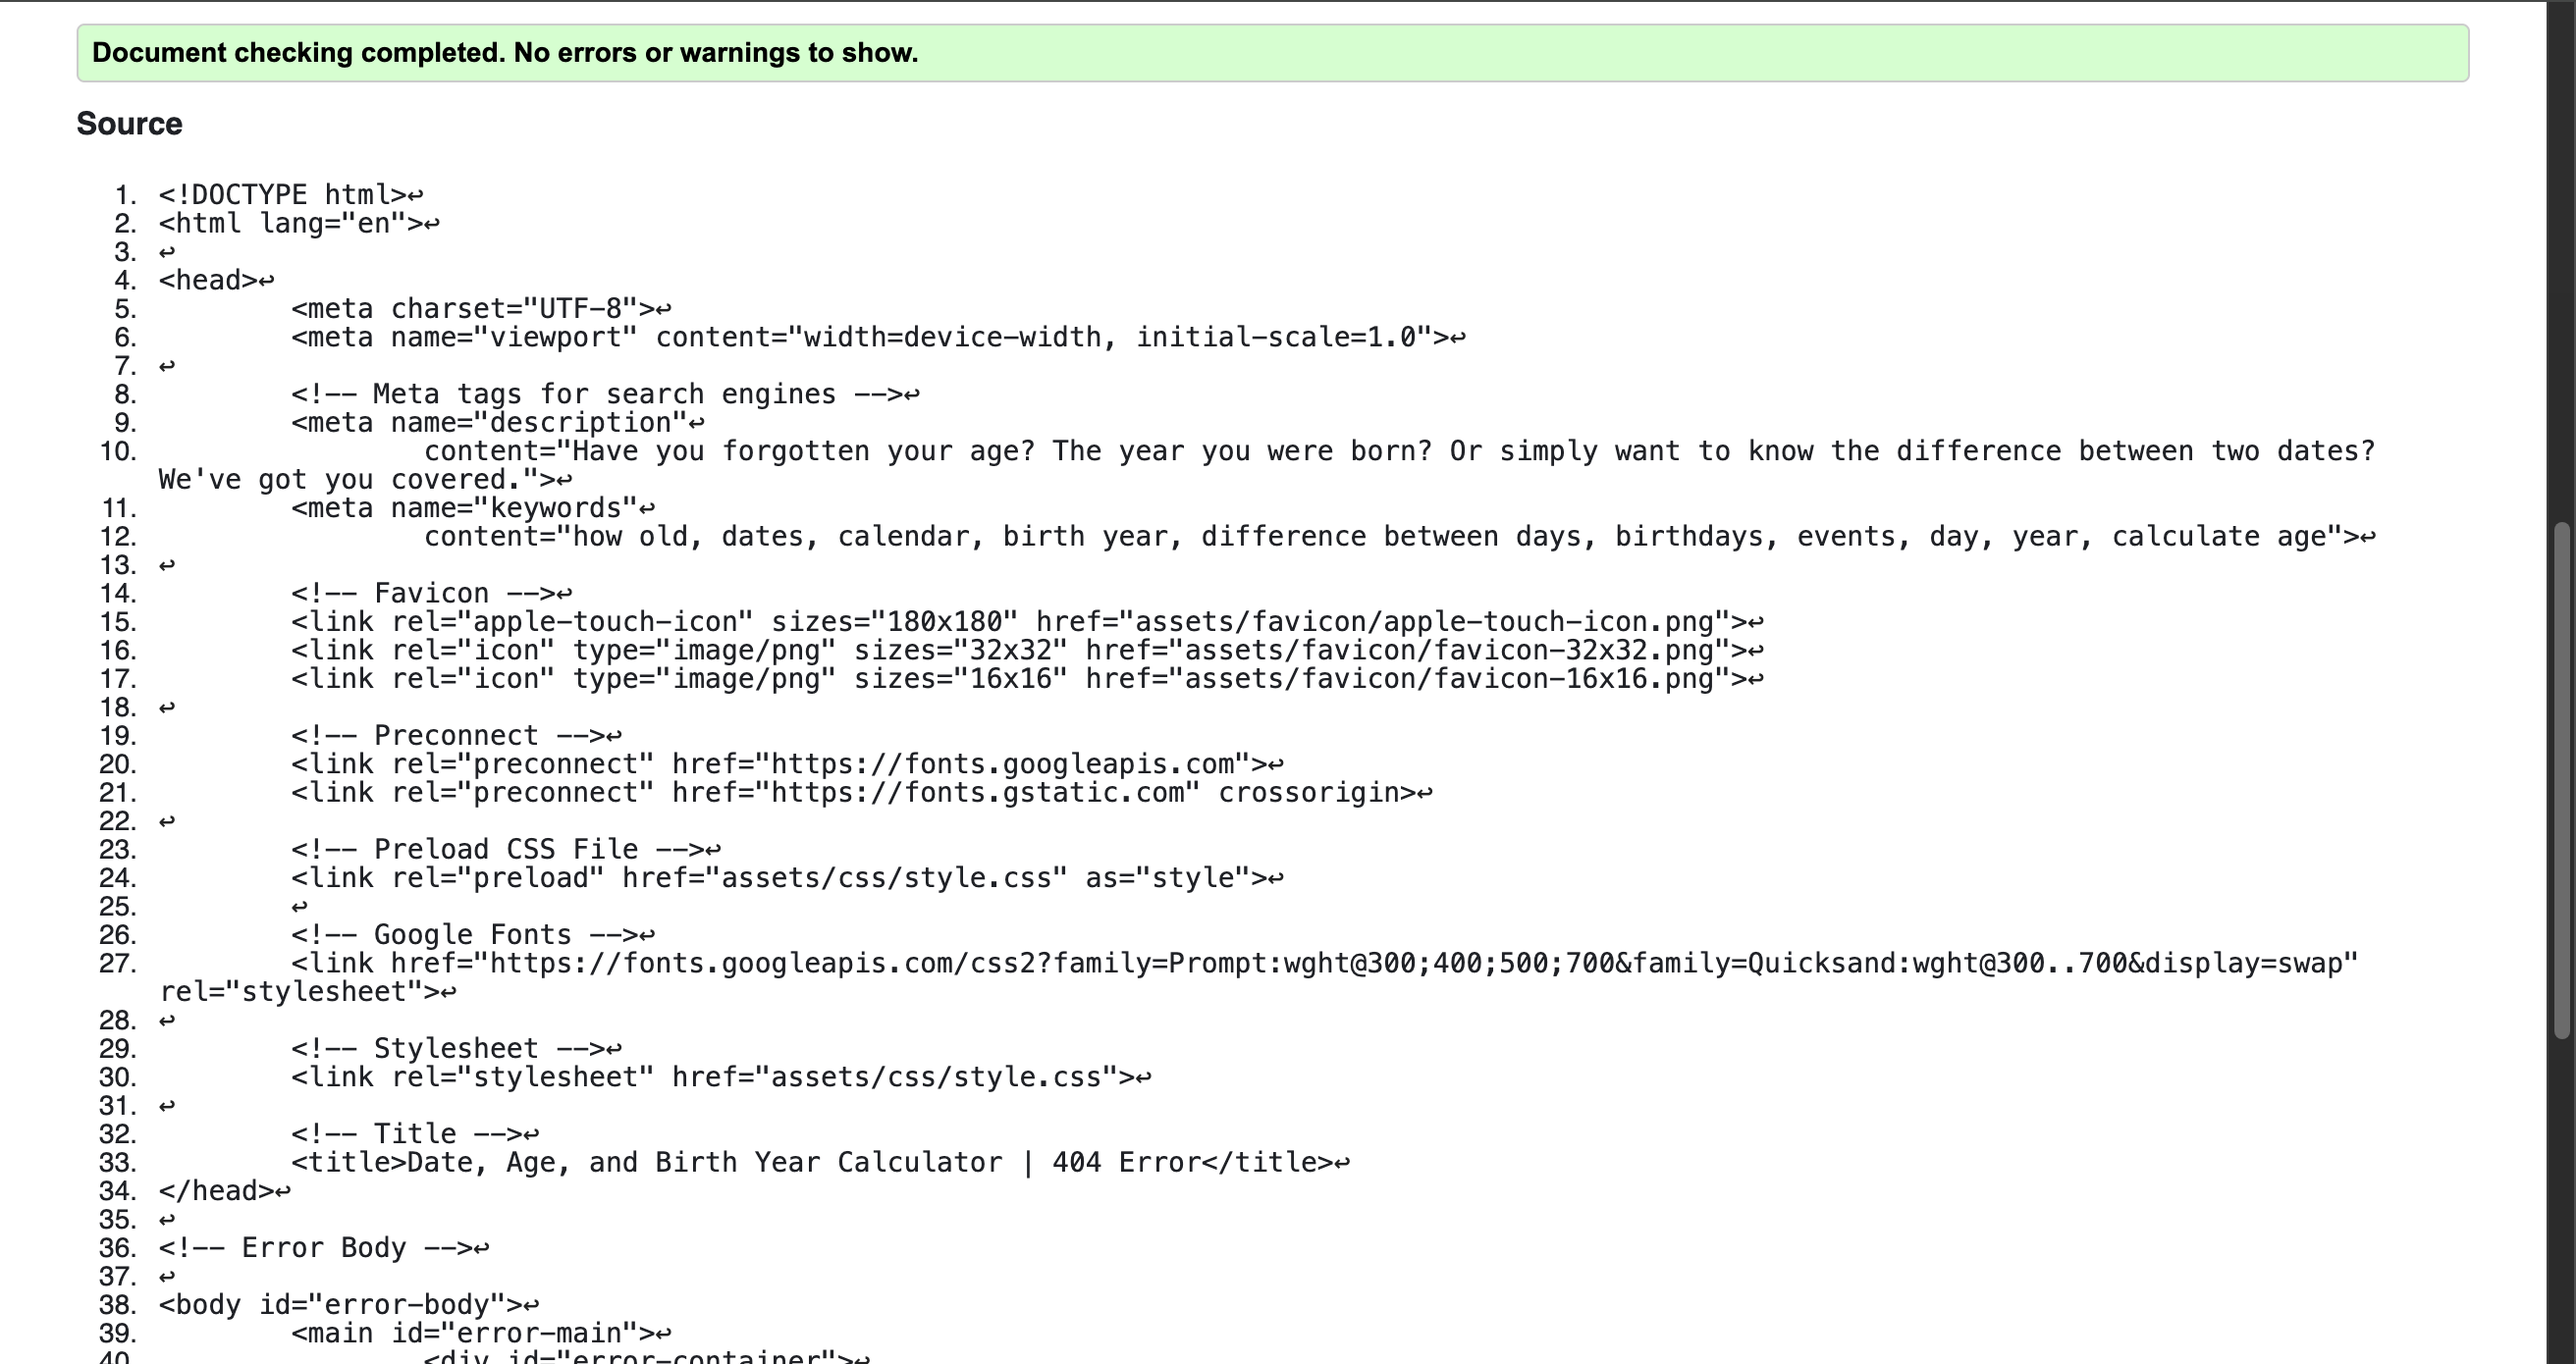
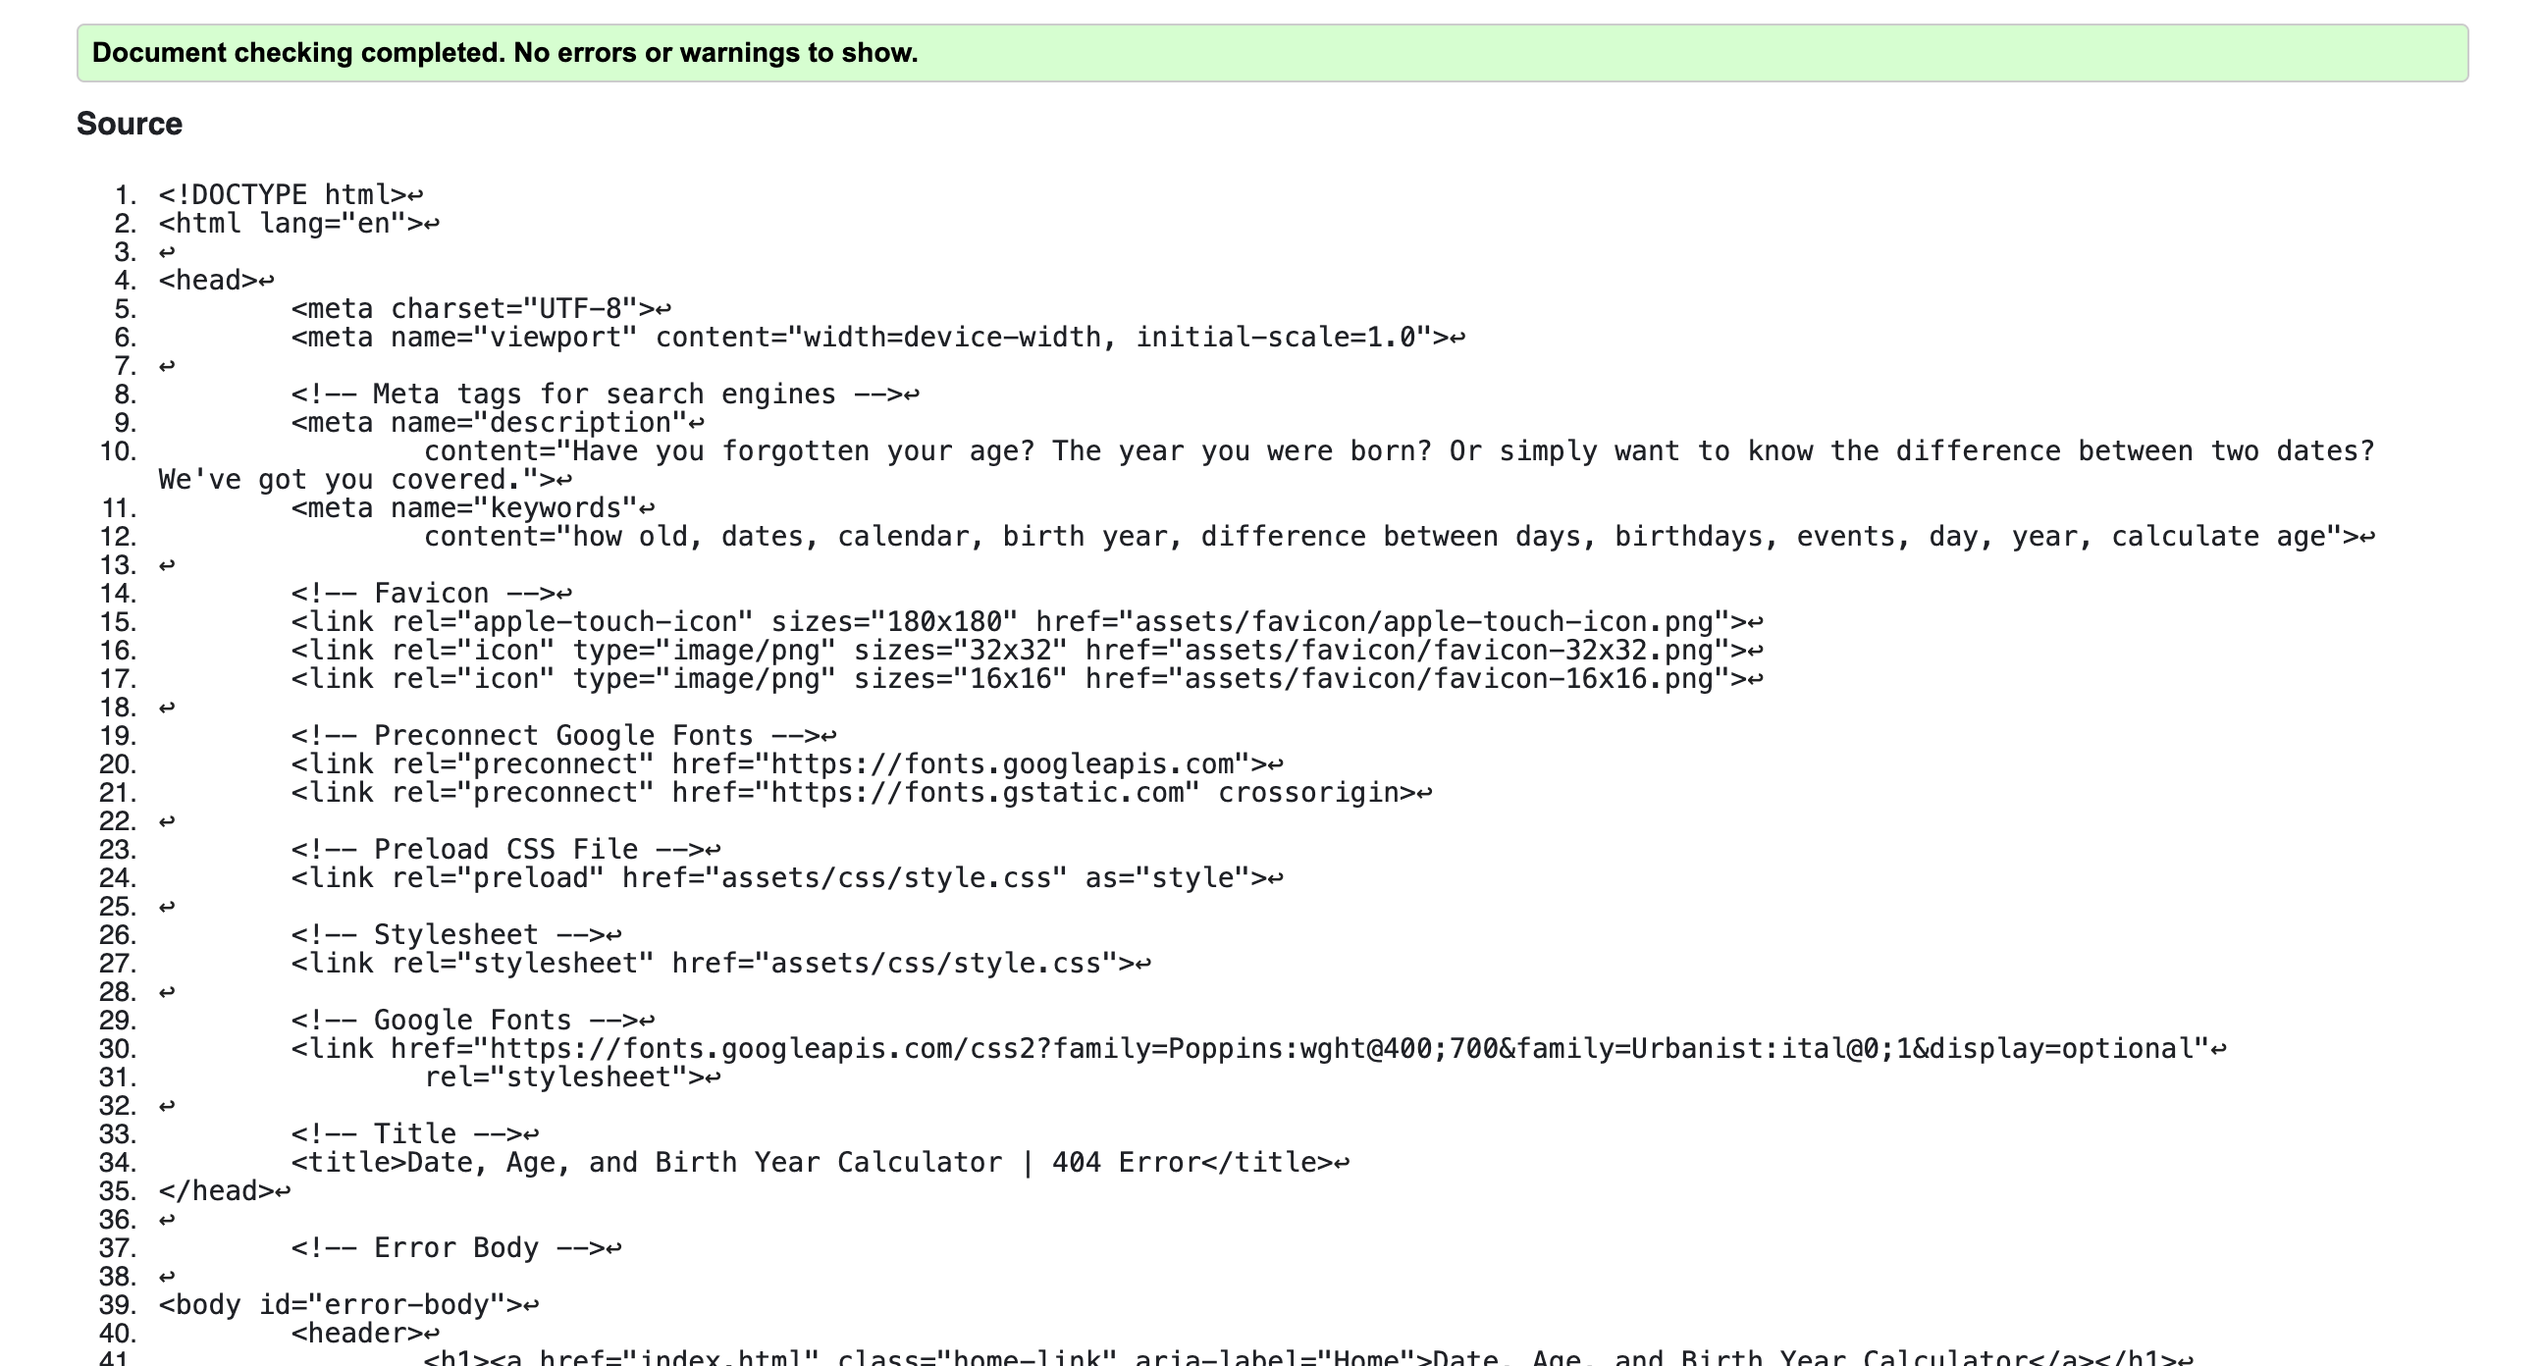
Amend README.md

diff --git a/README.md b/README.md
@@ -61,9 +61,10 @@ A color palette was chosen that matched the background image representing the na
 
 
 ## Typography
-![Quicksand + Prompt](assets/images/font-pairings.avif)
+![Poppins Font](assets/images/poppins-font.png)
+![Urbanist Font](assets/images/urbanist-font.png)
 
-The typography style that was chosen was meant to be easy to read without being too pensive.  The font size was increased a bit depending on where the messages appeared in the layout for ease on the eyes, but without overpowering the main focus of the app. Some text shadow was added to give the text a style mirroring the hourglass in the background image.  The Google fonts, Quicksand and Prompt, were used based on pairings from [Fontjoy.com](https://fontjoy.com/).
+The typography that was ultimately chosen was meant to be easy to read without being too pensive.  The font size was increased a bit depending on where the messages appeared in the layout for ease on the eyes, but without overpowering the main focus of the app. Some text shadow was added to give the text a style mirroring the hourglass in the background image.
 
 # Features
 
@@ -71,6 +72,10 @@ The typography style that was chosen was meant to be easy to read without being 
 ![Favicon](assets/favicon/apple-touch-icon.png)
 
 The calendar emoji was chosen as a simple and clear representation of dates.
+
+* ## Loader
+
+
 
 * ## Header
 
@@ -148,6 +153,16 @@ If a user navigates to an invalid URL, they will be directed to the 404 error pa
 
 This button provides a way for the user to return to the main web app if they are directed to the 404 error page.
 
+## Future Features
+
+- [ ] Add a Clock widget so users can see their local time
+
+- [ ] Add a Calendar widget that imports holidays and allows users to mark special dates
+
+- [ ] Add the ability for users to save a personal calendar
+
+- [ ] Add the ability for users to see special events, international days, and holidays by clicking on the date of the calendar
+
 # Testing
 
   - [HTML](#html)
@@ -209,5 +224,124 @@ No errors found
 ![Lighthouse Results Error](assets/images/lighthousevalidation-error.png)
 
 
-### Manual Testing
+## Manual Testing
+
+| **Feature** | **Test performed** | **Expected Outcome** | **Pass/Fail** |
+| :-----: | :-----: | :-----: | :-----: |
+| Loader |Refreshed page |Loader displays until page is ready | PASS |
+| Header Link | Clicked on Header Link |Redirected to Home Page| PASS |
+| Show Instructions | Clicked Show Instructions Button | Instructions Modal Opens | PASS
+Close Modal X | Clicked the "X" to close the Modal | Modal Closes | PASS |
+| Close Modal Outside Window | Clicked Outside Modal Window | Modal Closes | PASS |
+| Close Modal Window on Mobile Devices Outside Window | Tapped Outside Modal Window | Modal Closes | PASS |
+| Calculator Selection Buttons | Tapped/Clicked on Radio Button | Button Feedback and Correct Calculator Displays | PASS |
+| Date Field | Tapped/Clicked on Date Field | Able to input data into field | PASS |
+Calculate Button | Tapped/Clicked on Calculate Button | Received appropriate feedback | PASS |
+Recalculate Button | Tapped/Clicked on Recalculate Button | Resets the original state of calculator |PASS |
+| Footer Icon Link | Tapped/Clicked on Icon Link | Opens up Github Repo in new window | PASS
+Back to Home Button | Tapped/Clicked on Home Button (Error page) | Returns to Home page | PASS |
+
+
+## Responsive Testing
+
+Several physical Devices were used to test responsiveness
+
+- Samsung Galaxy S8+
+- Samsung Galaxy 22 Ultra +
+- Iphone 10 XS Max
+- Iphone 12 Pro Max
+- Dell 9310 Laptop 13 inch
+- Macbook Pro M2 16 inch
+
+Several Virtual Devices were also used inside of Google Chrome Dev tools to emulate these devices in Landscape and Portrait mode
+
+![Google Chrome Virtual Devices](assets/images/responsive-testing1.png)
+
+![Google Chrome Virtual Devices 2](assets/images/responsive-testing2.png)
+
+Different Browsers were also inspected for layout and performance variants including
+
+- Google Chrome
+- Firefox
+- Safari
+- Microsoft Edge
+- Brave Browser
+
+## Bugs Found
+
+Problem: In some of the browsers, the close button of the modal would appear on the left side instead of the right.
+
+Solution: The css was adjusted to position the close button on the left of all devices fixed in place for a more consistent experience.
+
+Problem:  On some of the smaller devices below 600px in height the page could not scroll down to the bottom.
+
+Solution: Adjust overflow so that each device could adopt the flexibility to display the entire page.
+
+Problem: In some of the browsers, the background image was not visible.
+
+Solution: Adjust media breakpoints and styles so that most of the devices breakpoints were caught in between media queries.  Add a fallback image for compatibility on each media query so the browser can determine the best option.
+
+Problem: On some mobile devices the footer was covered by a white line at the bottom of the screen.
+
+Solution: Add padding to the footer so to give room for the device function.
+
+# Deployment and Local Development
+
+## Deployment
+
+The site is deployed to GitHub Pages - [Here](https://vcgithubcode.github.io/portfolio-project-2/index.html)
+
+To Deploy the site using GitHub Pages by following these steps:
+
+1. Login (or signup) to Github.
+2. Go to the repository for this project, [Date, Age, and Event Calculator](https://vcgithubcode.github.io/portfolio-project-2/index.html).
+3. Click the settings button.
+4. Select pages in the left hand navigation menu.
+5. From the source dropdown select main branch and press save.
+6. The site has now been deployed, please note that this process may take a few minutes before the site goes live.
+
+## Local Development
+
+### How to Fork
+
+To fork this repository:
+
+1. Log in (or sign up) to Github.
+2. Go to the repository for this project, [Date, Age, and Event Calculator](https://vcgithubcode.github.io/portfolio-project-2/index.html)
+3. Click the Fork button in the top right corner.
+
+### How to Clone
+
+To clone this repository:
+
+1. Log into your account on Github
+2. Go to the repository of this project, [Date, Age, and Event Calculator](https://vcgithubcode.github.io/portfolio-project-2/index.html)
+3. Click on the code button, and copy your preferred clone link.
+4. Open the terminal in your code editor and change the current working directory to the location you want to use for the cloned directory.
+5. Type 'git clone' into the terminal, paste in the link you copied in step 3 and press enter.
+
+# Credits
+
+### Icon
+The Github Icon was sourced from [uxwing.com](https://uxwing.com/github-white-icon/)
+
+### Images
+The background image on the index page was sourced from [Freepik.com](https://www.freepik.com/)
+
+<a href="https://www.freepik.com/free-photo/same-hourglass-now-more-prominent-with-its-shadow-marks-fleeting-moments_135010356.htm#fromView=search&page=1&position=49&uuid=cade1bd7-0d6a-489c-ae8f-5594d750796a">Image by rorozoa on Freepik</a>
+
+The background image on the 404.html page was created with the help of [Leonardo.ai](https://leonardo.ai/)
+
+### Coding Inspiration and assitance
+
+- The code used was a combination of a few bits and pieces from the Love Maths content in the Code Institute LMS, [MDN web docs](https://developer.mozilla.org/en-US/docs/Web/JavaScript), [Stack Overflow](https://stackoverflow.com/questions/44667161/page-moving-left-and-right-while-in-mobile-browser)
+- I also used [W3Schools](https://www.w3schools.com/jsref/jsref_obj_date.asp) for ideas on the Date object and loader javascript
+- For help with the media queries, I attempted to use ChatGPT, Github Co-pilot, Google Dev tools AI, and ever Cursor as an assistant, but found no clear answers to achieve my goals.
+- For inspiration for the apperance of the loader I used this entry on UIVerse.com by [doniaskima](https://uiverse.io/doniaskima/rare-falcon-68)
+
+### Content
+- The text content on the website is written by me.
+
+### Acknowledgements
+- I would like to thank my mentor, [Daisy McGirr](https://github.com/Dee-McG) for her guidance, encouragement, and support throughout this project and the course.
 
